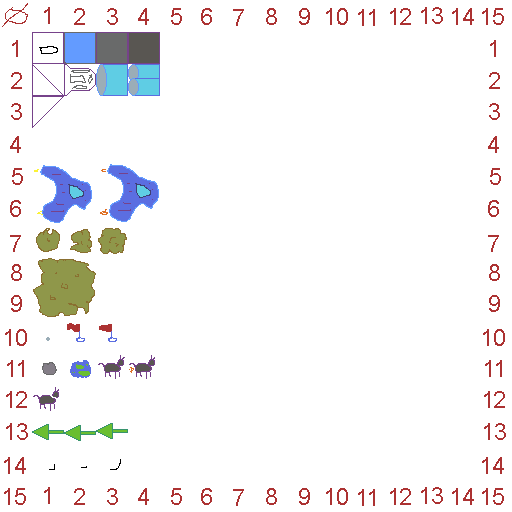
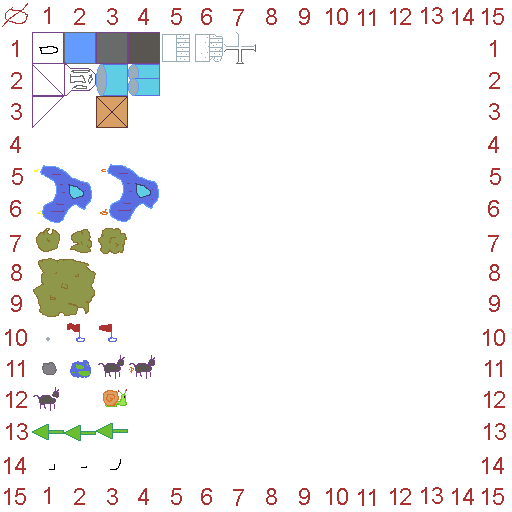
new pieces and armor and stuff

Changed region(s): [[0.3125, 0.0625, 0.5, 0.125], [0.1875, 0.75, 0.25, 0.8125], [0.1875, 0.1875, 0.25, 0.25]]

diff --git a/src/ludumDare43/actors/shipPartsData.ts b/src/ludumDare43/actors/shipPartsData.ts
@@ -11,14 +11,16 @@ export interface IShipPartData {
   mass: number
   enginePower?: number
   notSpawnable?: boolean
+  damagesTo?: IShipPartData
+  special?: string
 }
 
 let datas: IShipPartData[] = []
 let spawnableDatas: IShipPartData[] = []
 let shipPart1: IShipPartData = {
-  name: 'part-1',
+  name: 'core-1',
   frame: spriteUtil.frame32(1, 1),
-  mass: 2,
+  mass: 5,
   notSpawnable: true,
 }
 datas.push(shipPart1)
@@ -28,6 +30,12 @@ let shipPart2: IShipPartData = {
   mass: 1,
 }
 datas.push(shipPart2)
+let s: IShipPartData = {
+  name: 'connector-1',
+  frame: spriteUtil.frame32(1, 7),
+  mass: 0.5,
+}
+datas.push(s)
 let wing: IShipPartData = {
   name: 'wing-1',
   frame: spriteUtil.frame32(2, 1),
@@ -69,6 +77,32 @@ let engine2: IShipPartData = {
   enginePower: 2,
 }
 datas.push(engine2)
+
+let armor1d: IShipPartData = {
+  name: 'armor-1d',
+  frame: spriteUtil.frame32(1, 6),
+  noRight: true,
+  mass: 1.5,
+  notSpawnable: true,
+}
+datas.push(armor1d)
+let armor1: IShipPartData = {
+  name: 'armor-1',
+  frame: spriteUtil.frame32(1, 5),
+  noRight: true,
+  mass: 2,
+  damagesTo: armor1d,
+}
+datas.push(armor1)
+
+let crate1: IShipPartData = {
+  name: 'crate-1',
+  frame: spriteUtil.frame32(3, 3),
+  mass: 2,
+  special: 'snails',
+}
+datas.push(armor1)
+
 spawnableDatas = _.filter(datas, (c: IShipPartData) => !c.notSpawnable)
 
 export { datas, shipPart1, spawnableDatas }

diff --git a/src/ludumDare43/actors/shipParts.ts b/src/ludumDare43/actors/shipParts.ts
@@ -351,8 +351,22 @@ export function updateAll(elapsedTimeSec) {
 export function destroyFixedPiece(c: IShipPart) {
   if (!c.isDead) {
     getContext().sfx.playPartDestroyed()
+
+    if (c.data.damagesTo) {
+      c.data = c.data.damagesTo
+      c.anim.sprite.texture.frame = c.data.frame
+      return
+    }
+
     smash(c)
     safeSetShipGrid(c.bx, c.by, null)
+
+    // if (c.data.damagesTo) {
+    //   let dp = create(c.data.damagesTo)
+    //   dp.anim.sprite.x =
+    //   safeSetShipGrid(c.bx, c.by, dp)
+    //   return
+    // }
 
     // Flood fill core to make sure everything is connected
 

diff --git a/src/ludumDare43/actors/goats.ts b/src/ludumDare43/actors/goats.ts
@@ -67,8 +67,14 @@ export function create() {
 
 export function eject() {
   item.isFree = true
-  item.tx = _.random(50, 250)
-  item.ty = _.random(50, 250)
+  item.tx = _.random(50, 300)
+
+  if (_.random(true) > 0.5) {
+    item.ty = _.random(50, 130)
+  } else {
+    item.ty = _.random(220, 300)
+  }
+
   // item.anim.sprite.x = _.random(100, 200)
   // item.anim.sprite.y = _.random(100, 200)
 }
